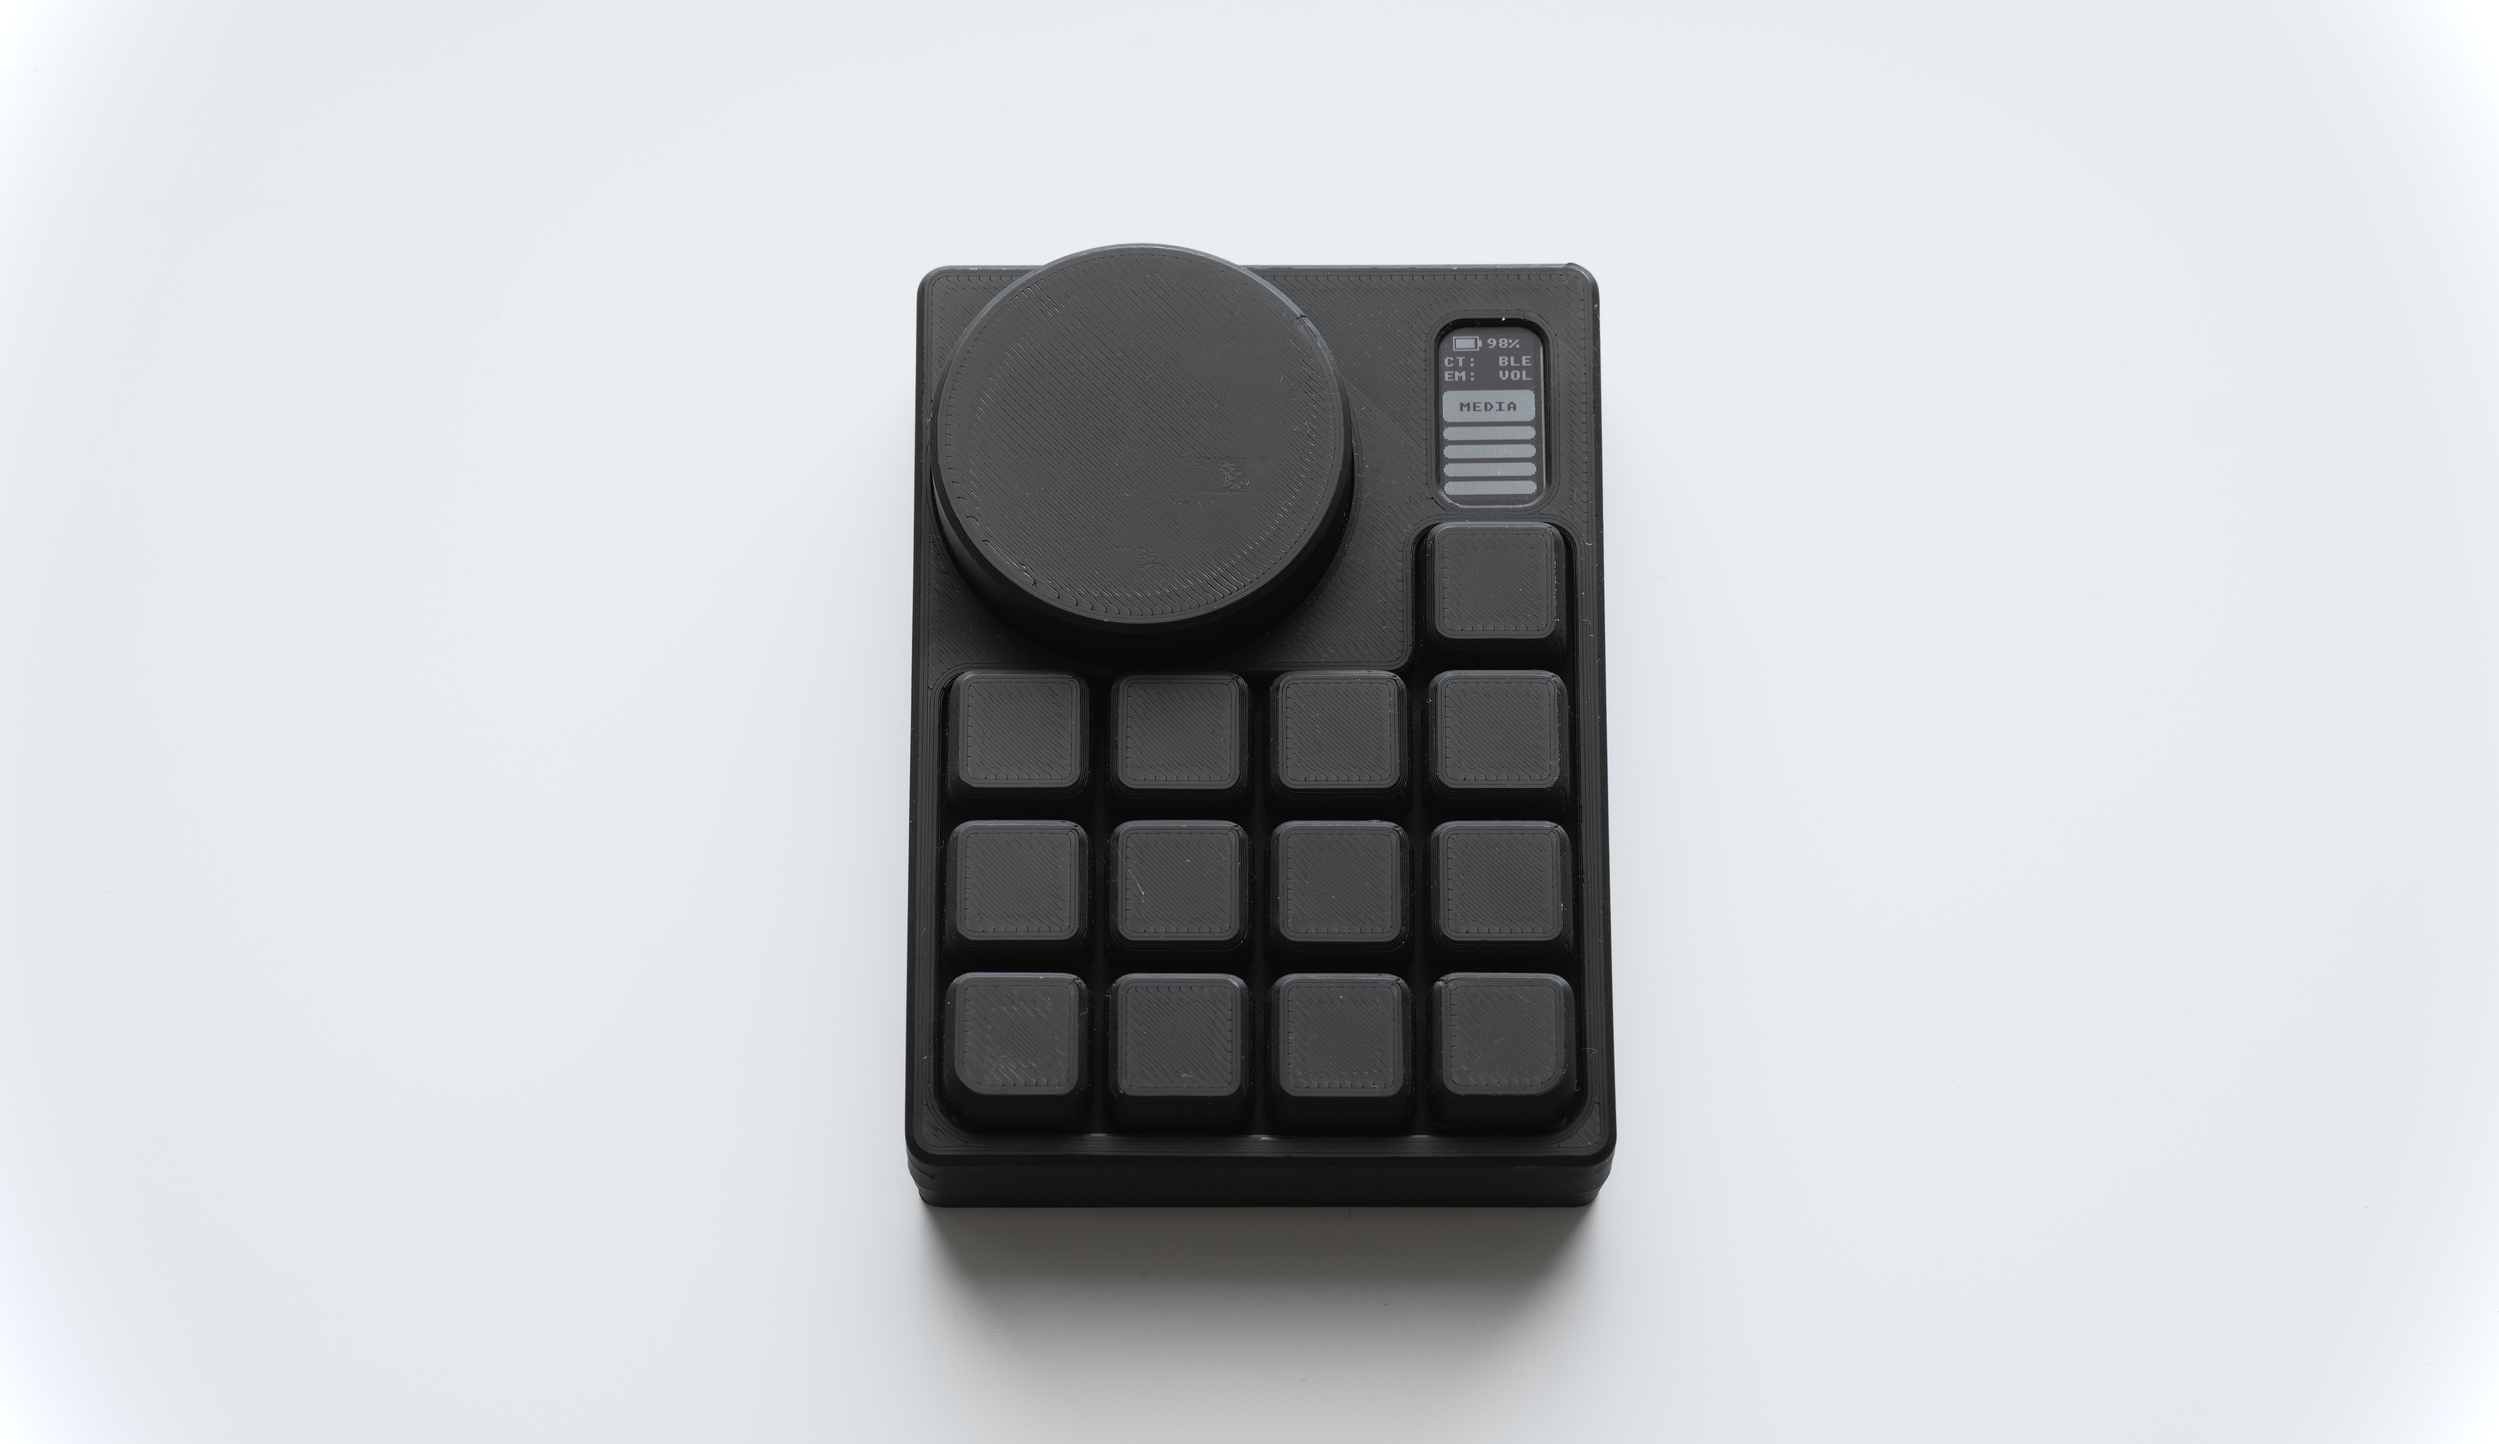
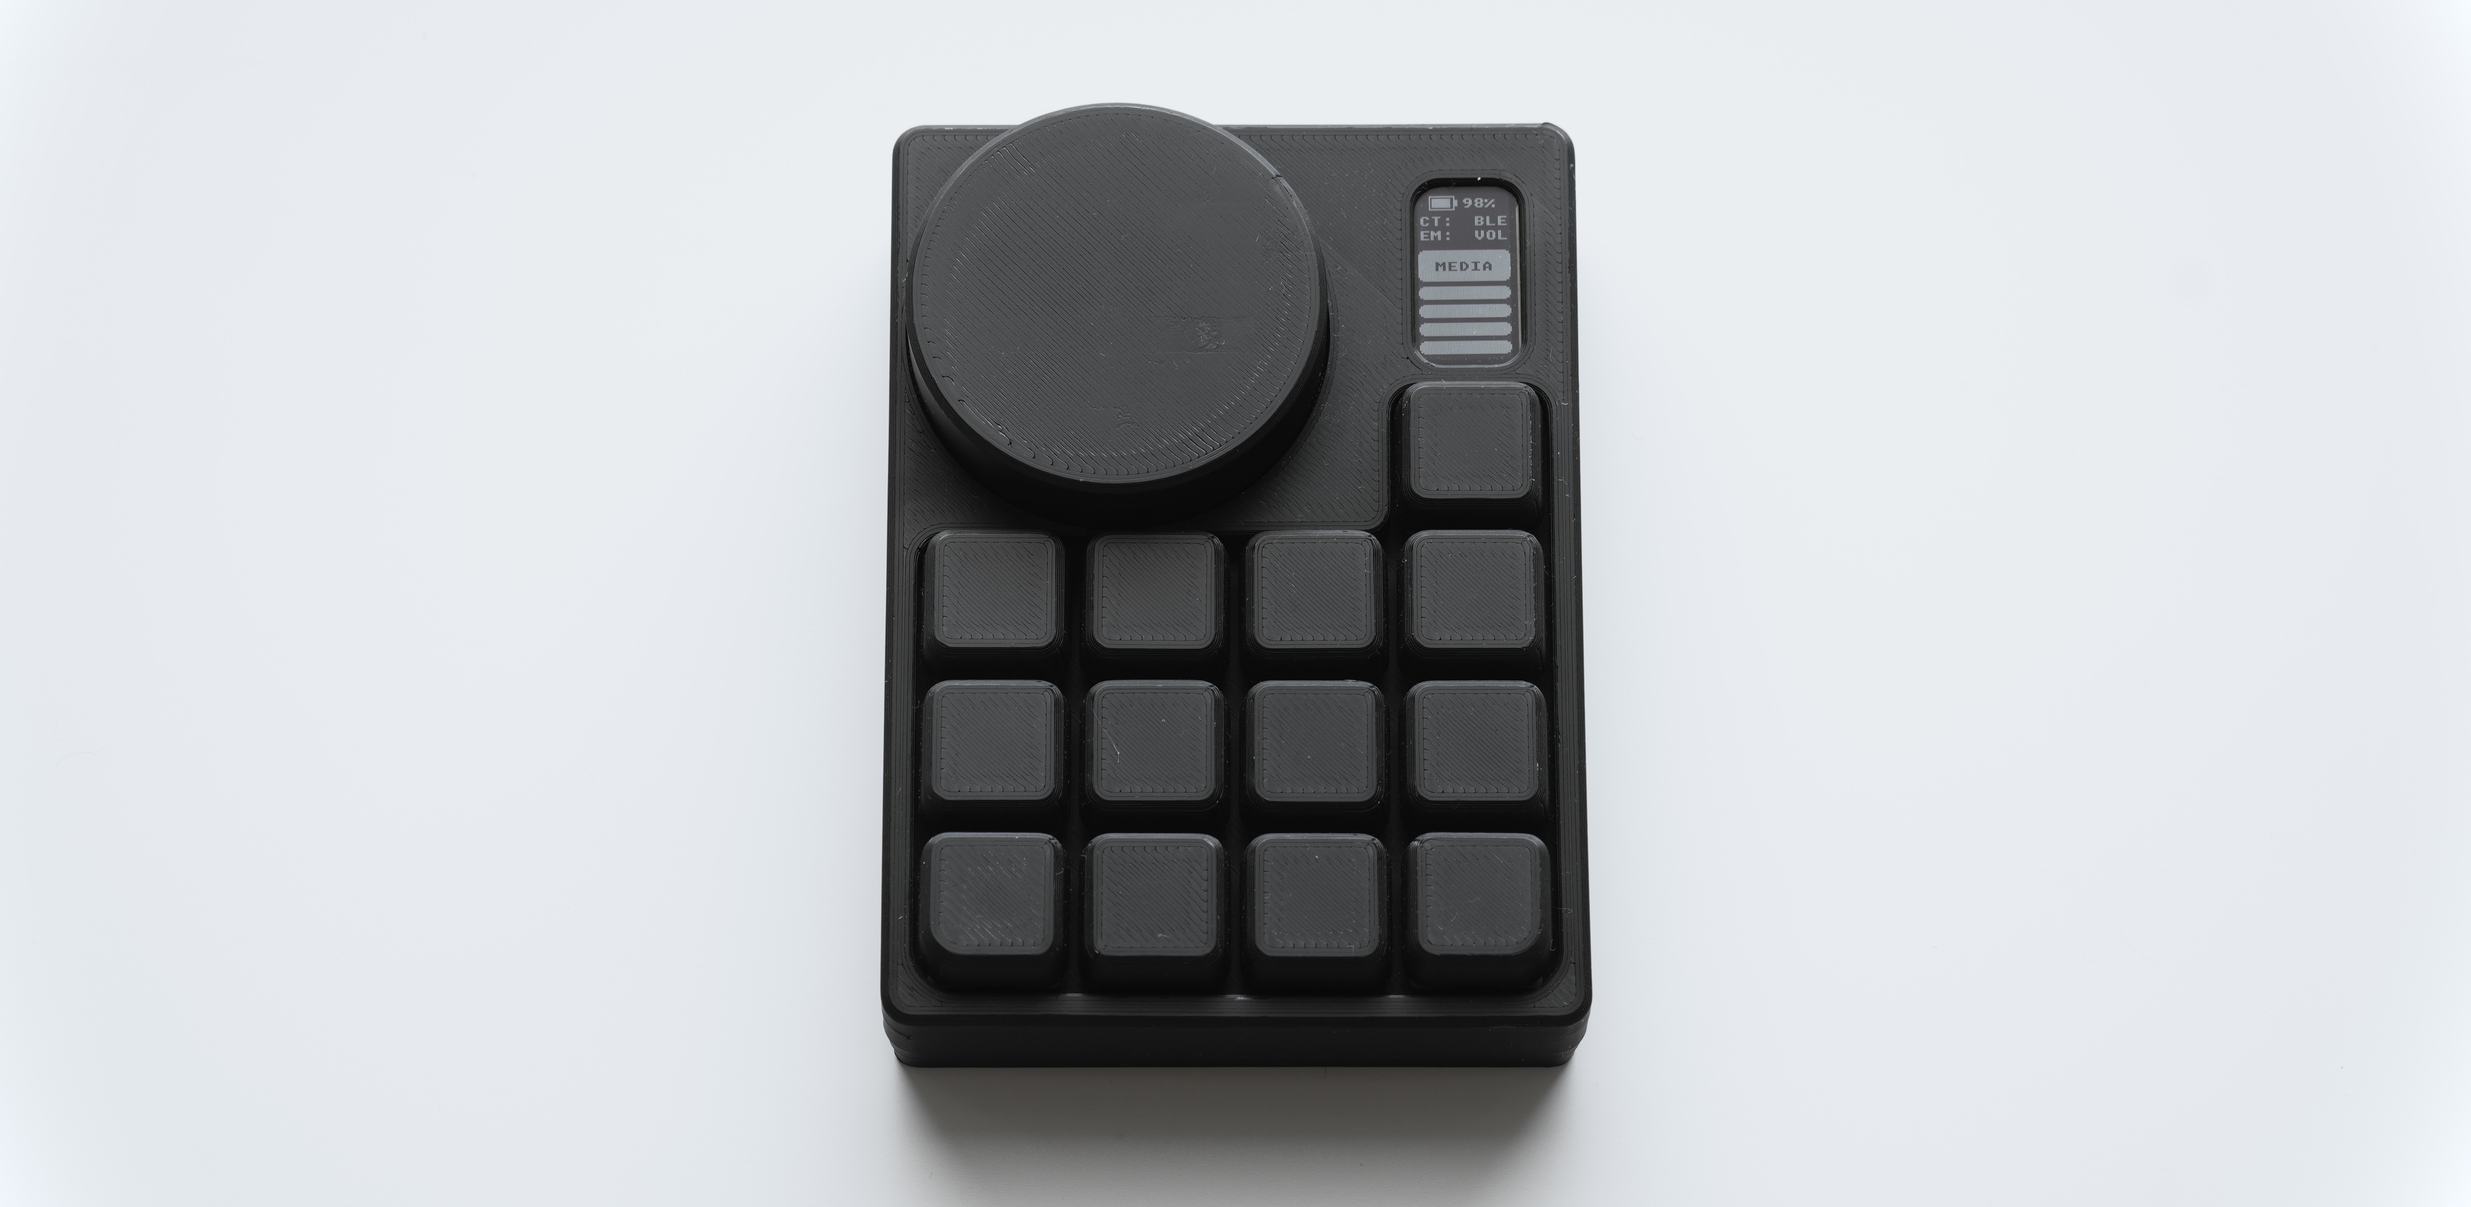
Adding journal entries from 07-25 + README formatting + hero picture cropped

Changed region(s): [[0.3428, 0.0624, 0.6544, 1.0]]

diff --git a/JOURNAL.md b/JOURNAL.md
@@ -1112,3 +1112,141 @@ But the README.md is not finished yet. I still need to add all of the pics and p
 **tl;dr:** Started the README.md + gave the repo some care; the README.md offers a good overview.
 
 **Time spent this session: 3.5 hours**
+
+
+#### July 25: Adding the Hero + layout shot to the README.md, fixing KiCanvas + formatting
+
+Starting with the photos: Today I created the Hero and Layout shot of my macro keyboard.
+
+1. For the Hero shot I used a white back ground and placed the background and my keyboard in front
+of my window in order to light the scene evenly. I would have liked to use my phone to capture the
+image, but I couldn't due to not having enough control over the iso, aperture  and shutter speed.
+Because the scene was lit brightly and a lot of light hit the sensor of my phone camera, the shutter
+speed was increased. (Or the time, that light hits the sensor, was decreased).
+This is problem, because this is what the display looks like up close:
+
+![](assets/journal-assets/2026-07-25-OLED-BFI.jpeg)
+
+I knew this effect from an LTT video about nvidias pulsar technique on LCD monitors to decrease motion blur.
+Quick google search, to explain it correctly:
+This is **Backlight Strobing** or **Black Frame Insertion** (BFI)
+> How it works: Instead of leaving the backlight or pixels on continuously (sample-and-hold), the display 
+> briefly turns off the light or inserts a black frame between each real frame. This cuts down how long an 
+> image stays visible on your retina, stopping the smear effect as your eyes track movement.
+
+But the reason, why my OLED also inserts black bars, is probably that this is also the way, in which brightness
+is controlled. (like over PWM) - Inserting black bars, between frames, is probably easier than dimming
+the brightness of individual pixels... considering that the OLED is driven over I2C with limited bandwidth
+and full array dimming mean that instead pushing a buffer with 1bpp it would require n/2 many bits per pixel
+for n many brightness levels.
+
+This also means, that I wont be able to change it (probably), only if I run the OLED at full eye-blinding brightness.
+
+Sorry for nerding out about this. It is ok, if the time I spent on this work session, is not account for.
+And it might not all be correct. I am speculating.
+
+This effect is not visible by a human eye, because our eyes are exposed to light for a long time and are
+sluggish. - So to get rid of the BFI, I just need to mimic the human eye, by exposing the sensor of my
+camera to light for longer.
+
+This is what shutter speed controls. But the problem is that I don't have control over it. This is why I told
+you in the beginning that I couldn't use my phone.
+
+My camera worked though. There I had full control over the shutter speed and took this picture with the white
+background:
+
+![Macro Keyboard](assets/hero.jpg)
+
+2. Layout picture: I screenshotted the top view of the keyboard in CAD (I use Autodesk Fusion)
+with different render settings.
+I put in the solid body view into photo shop with the visible edges and then overlayed another photo with a full
+wire frame view with the same perspective and adjusted the coverage (Deckkraft auf Deutsch).
+This results in a clear photo with faint internals of the macro keyboard.
+
+Then I marked the important periphere with text and exported this pic:
+
+![Macro Keyboard layout](assets/layout.jpg)
+
+3. For KiCanvas I needed to change the address to the path of my KiCad project root in order for KiCanvas to
+find the PCB and schematic.
+
+![Macro Keyboard layout](assets/2026-07-25-KiCanvas-badge.png)
+![Macro Keyboard layout](assets/2026-07-25-KiCanvas-view.png)
+
+4. Lastly I changed some formatting in the README.
+
+**tl;dr:** Took the hero picture of the macro keyboard, which made me discover the effect BFI has when
+photographing it with a high shutter speed - was able to solve it by using my separate camera; created the 
+layout photo by mashing together multiple view exports from my CAD; lastly fixed KiCanvas and did formatting.
+
+**Time spent this session: 4 hours**
+
+
+#### July 25: Adding licenses to the GitHub repo 
+
+The ship requirement of horizons was to pic out and add a license to the repo. So I added two licenses!
+
+This was actually pretty simple. I looked up common licenses for hardware projects and software projects
+on GitHub. Especially the projects that went into my direction. For example, there is this one guy, who
+built a [split keyboard](https://github.com/GEIGEIGEIST/TOTEM/tree/main?tab=readme-ov-file) based on the
+Seeed Studio XIAO nRF52840 BLE or XIAO RP2040.
+I actually discovered him a while ago (almost a year) when I first started with my project and was looking
+for other people that also had a problem. Ever since seeing his sleek split keyboard, he has been a great
+inspiration, even though he built a split keyboard instead of a macro keyboard.
+
+And he chose the "CERN Open Hardware Licence Version 2" - which I also liked. It basically says:
+
+> Anyone may study, modify, fabricate and sell your board. But if they distribute a modified design,
+> or distribute a product made from it, they must make the complete corresponding design sources 
+> available under CERN-OHL-S v2 too, keep your notices, and — where practicable — keep the source 
+> location visible on the product's case (§4). So a company can build and sell your keypad, but they
+> can't fork the PCB into a closed product.
+
+So I chose this license for the hardware. Not for the whole repo, because I already use open source
+firmware ZMK and I tailored and expanded it with modules, that could be very useful to other people.
+For example: The OLED module. And the problems I had are documented (e.g. artifacting, custom screen
+failing, anti aliased text that looked weird, assigning multiple bits to a 1bpp pixel or config I set
+up was flipped back to default by just changing to the custom screen instead of the built in one)
+Or an other example is the AS5600 driver that was adapted from Zephyr to work seamlessly with ZMK.
+This can be used by other people and I don't need to be that strict there.
+
+So for the Software part I chose the MIT license:
+> Maximally permissive. Anyone can use, modify, sell, or close-source my ZMK module, driver and config;
+> the only obligation is keeping my copyright line and the licence text with copies. I give no warranty
+> and take no liability. It does not require anyone to publish their changes back to me. 
+
+This is also the same license ZMK itself uses, so there's no friction there.
+
+Sound good.
+
+So I went onto https://ohwr.org/cern_ohl_s_v2.txt and opensource.org/license/mit and added them to
+the Repo and explained the dual license structure in the README.md shortly:
+
+> | Part | License | File |
+> |---|---|---|
+> | Firmware, ZMK config, scripts, docs (everything outside `hardware/`) | **MIT** | [LICENSE](./LICENSE) |
+> | Hardware design — KiCad schematic/PCB, Gerbers, CAD/case, BOMs (everything in `hardware/`) | **CERN-OHL-S v2** | [hardware/LICENSE](./hardware/LICENSE) |
+
+GitHub only detects a license at the repo root. It reads LICENSE there and nowhere else, so 
+whichever license sits at root becomes the badge on the repo page and the value in the API.
+The convention is: root = default, subdirectory = override. And in multi-license repos the root
+file is read as covering everything not otherwise stated, and a LICENSE deeper in the tree scopes
+that subtree. 
+So hardware/LICENSE overriding for hardware/ is the pattern people expect, and it puts the CERN text
+right next to the files it governs.
+
+The one weakness of the current split could be that a root LICENSE invites the readers that MIT covers
+hardware/ too, and someone who only reads the root file might not go looking for the override. 
+But the README table from the top is what resolves that (or should).
+(The usual fix is a short NOTICE file at root stating the split, rather than adding prose to LICENSE 
+itself — but keeping LICENSE as pure license text is what keeps GitHub's detector happy...)
+
+So this is why I landed on the structure.
+
+**tl;dr:** I needed to add a license to the repo, so I was going through many licenses, especially
+those assigned to similar projects. I added two licenses: CERN for hardware, MIT for firmware; 
+I made sure nothing collides with other open source projects I use (e.g. ZMK) and ´I don't break to many
+conventions with the license structure in the README (MIT as root and CERN as override for hardware
+subpath).
+
+**Time spent this session: 3 hours**

diff --git a/README.md b/README.md
@@ -198,8 +198,7 @@ Full instructions: **[hardware/BUILD.md](./hardware/BUILD.md)**. In short:
 1. **Order the PCB** — send the Gerbers ([production/](./hardware/PCB/KiCad/Macro-Keyboard-v4/production/)) 
 to JLCPCB (or any other pcb manufacturer of your liking) and have the LCSC-SMT parts from 
 [BOM_PCB.csv](./hardware/BOM_PCB.csv) assembled /or populated the board.
-2. **Source the rest of the parts** — [BOM.csv](./hardware/BOM.csv): switches, OLED, encoder magnet 
-+ bearing, battery, 3D print case.
+2. **Source the rest of the parts** — [BOM.csv](./hardware/BOM.csv): switches, OLED, encoder magnet + bearing, battery, 3D print case.
 3. **Hand-solder** the non-SMT parts onto the PCB, **print the case**, fit the encoder bearing first,
 then magnet into the knob.
 4. **Assemble all of the parts** - basically putting the enclosure parts, bearing, wheel for encoder
